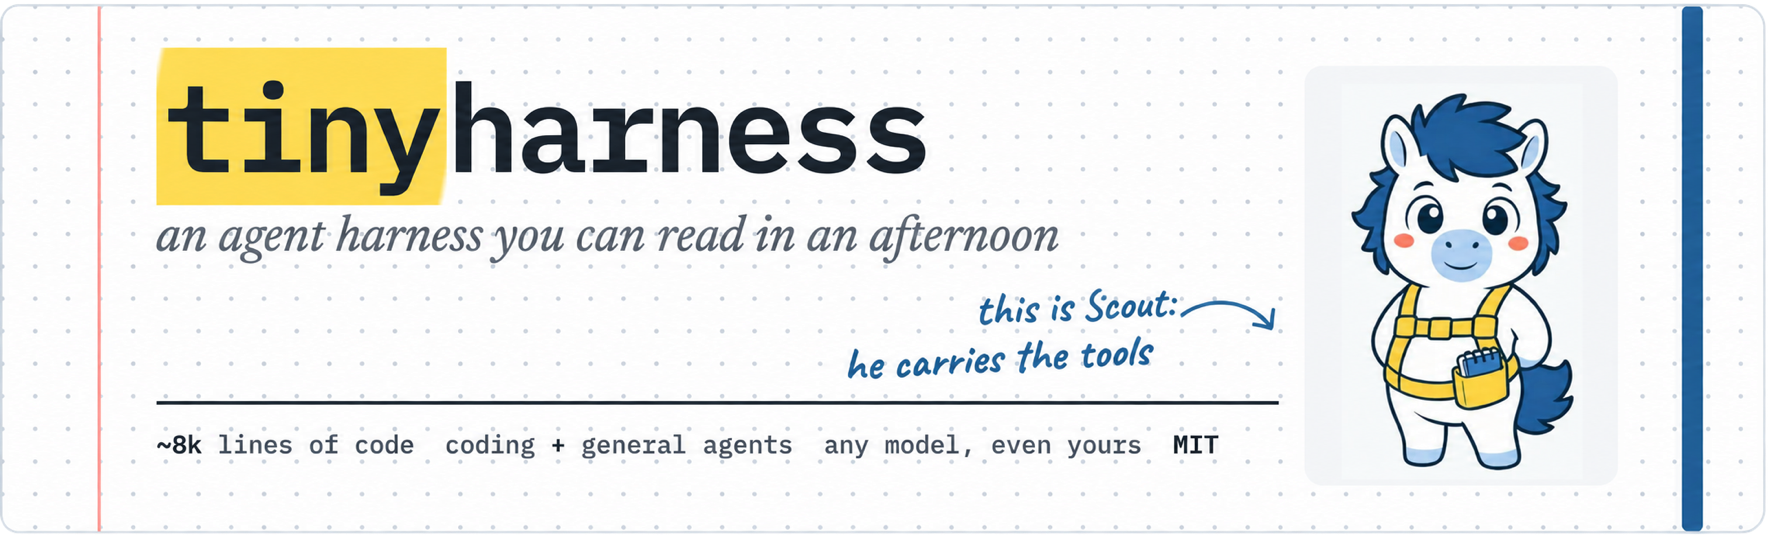
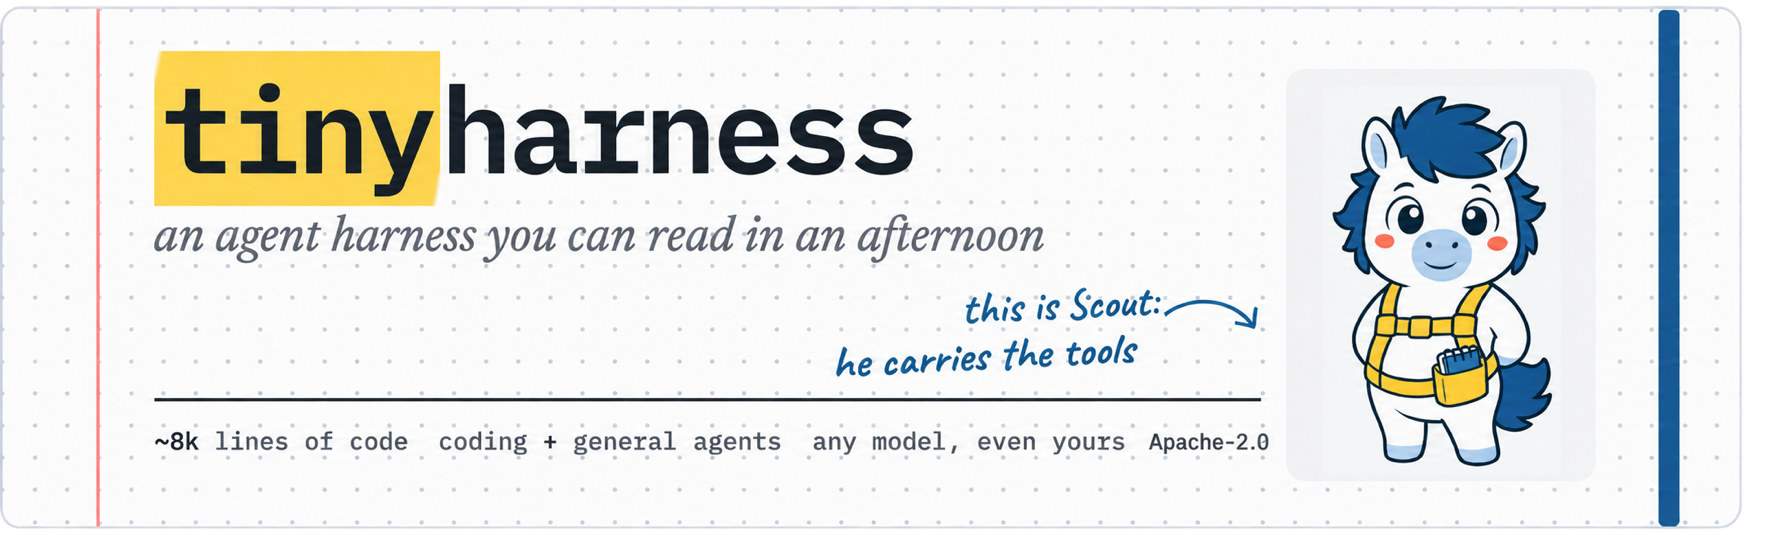
update mascot

diff --git a/CHANGELOG.md b/CHANGELOG.md
@@ -7,6 +7,14 @@ the SDK, and every break is listed here.
 
 ## Unreleased
 
+## 0.1.0 (2026-10-14)
+
+First release.
+
+Release validation is summarized in
+[`docs/releases/v0.1.0-smoke.md`](docs/releases/v0.1.0-smoke.md). Raw session traces are
+intentionally excluded because they can contain prompts, filesystem paths and project context.
+
 ### Changed
 - Switched the project license from MIT to Apache License 2.0.
 
@@ -50,14 +58,6 @@ the SDK, and every break is listed here.
   cover write confinement, project and sibling credentials, and blocked network access.
 - Publishing waits for the same lint, type, platform-matrix, minimum-dependency, package,
   and real Linux Sandbox Runtime checks as ordinary CI.
-
-## 0.1.0 (2026-10-13)
-
-First release.
-
-Release validation is summarized in
-[`docs/releases/v0.1.0-smoke.md`](docs/releases/v0.1.0-smoke.md). Raw session traces are
-intentionally excluded because they can contain prompts, filesystem paths and project context.
 
 ### Added
 - The core Open tool now presents files and URLs as typed, clickable artifacts
